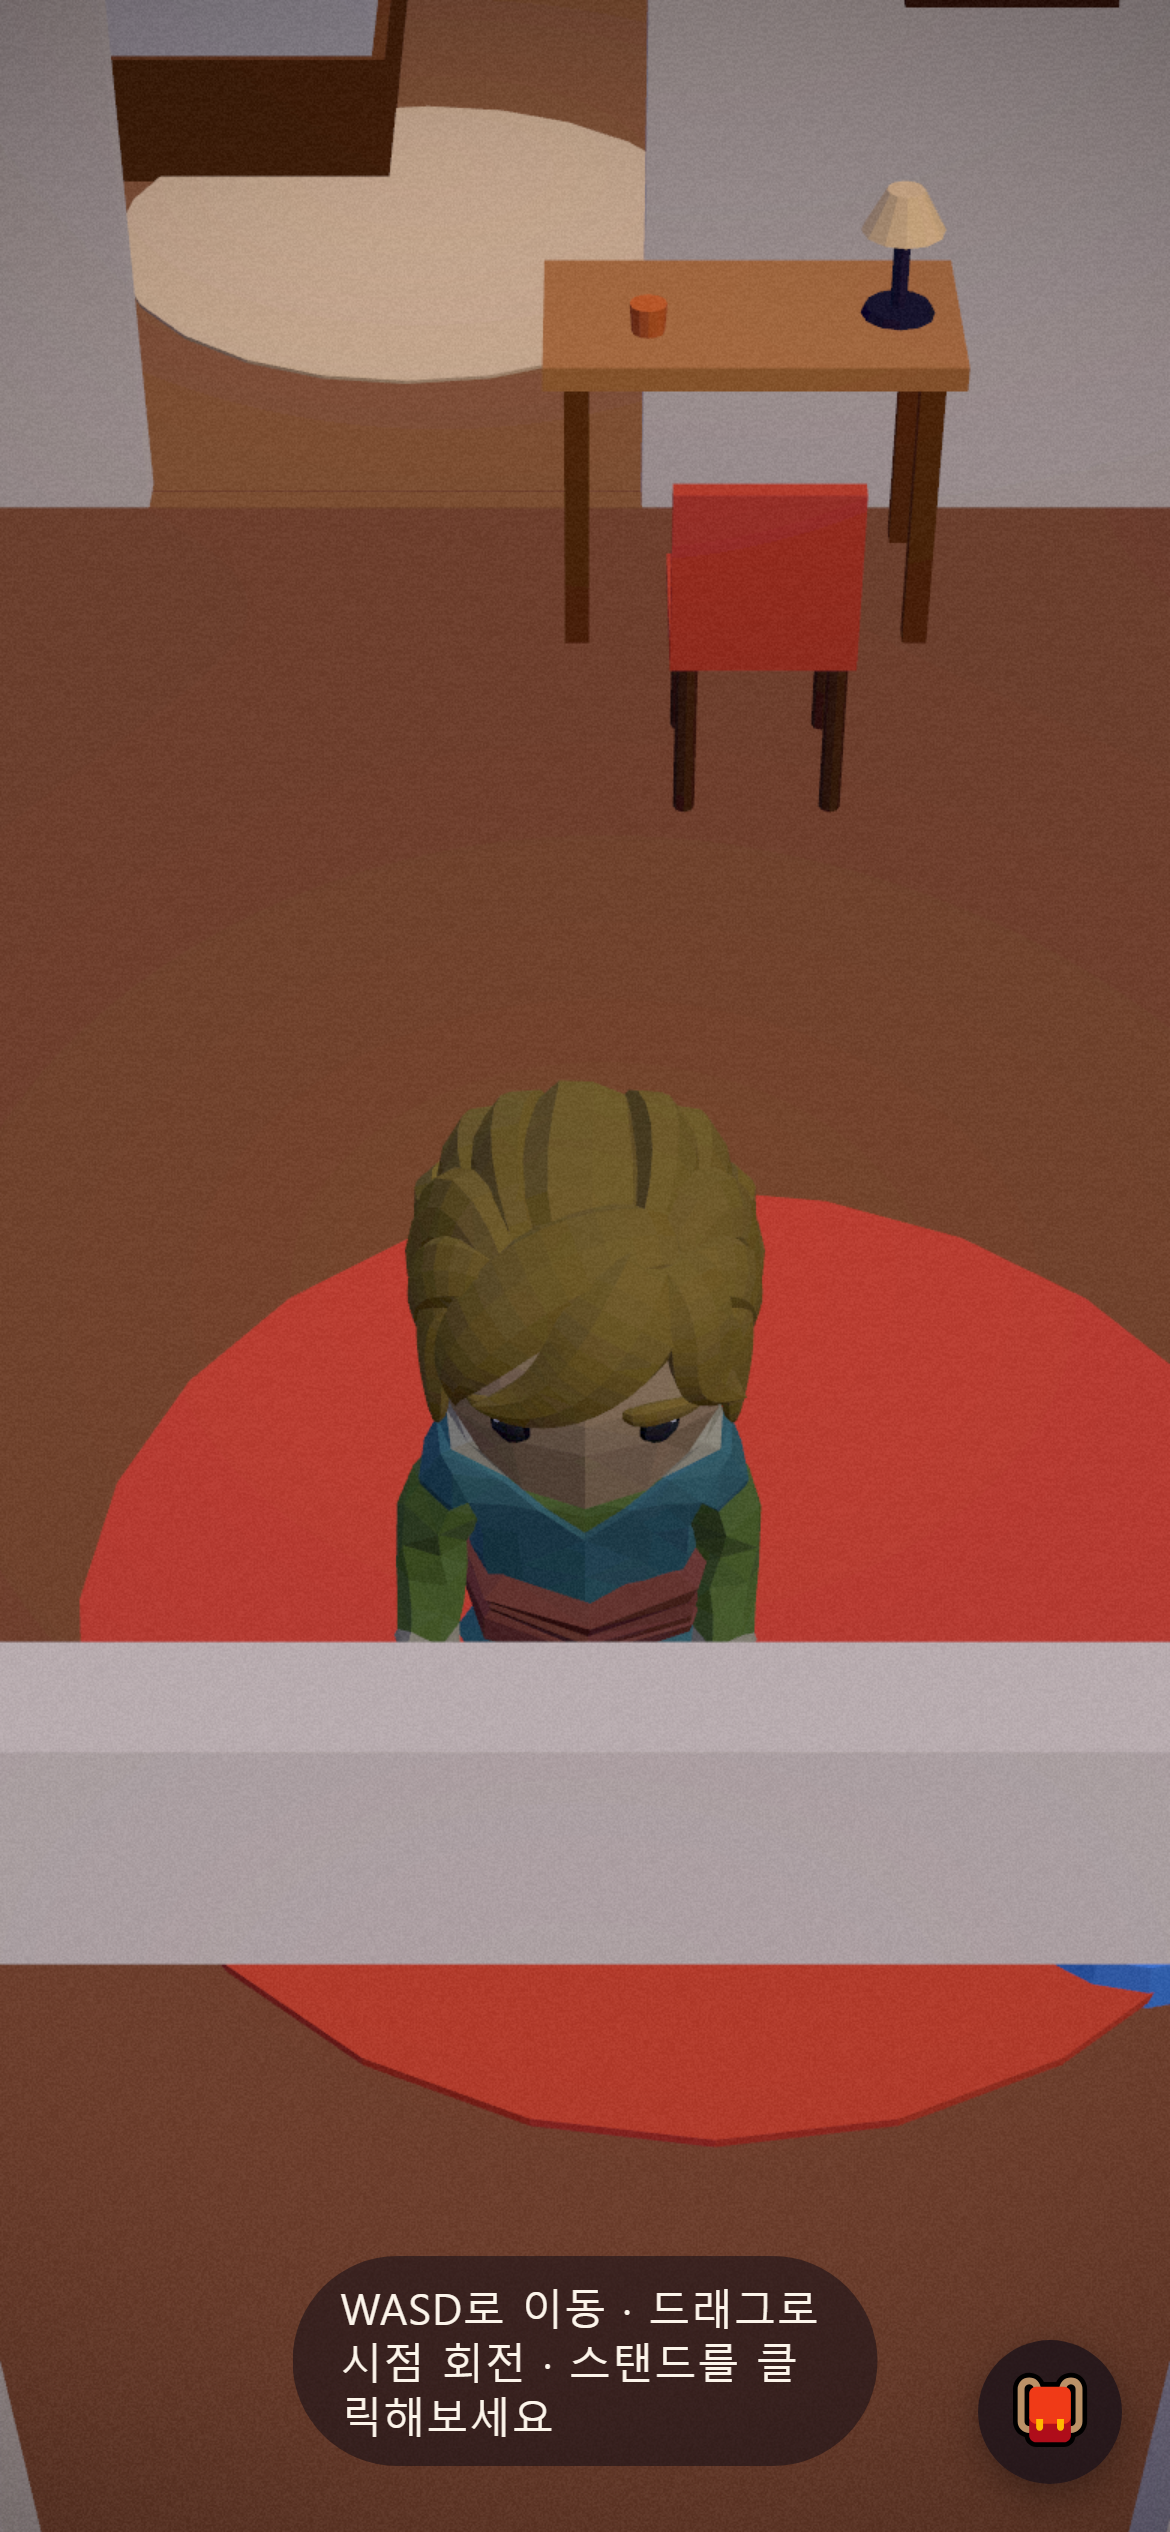
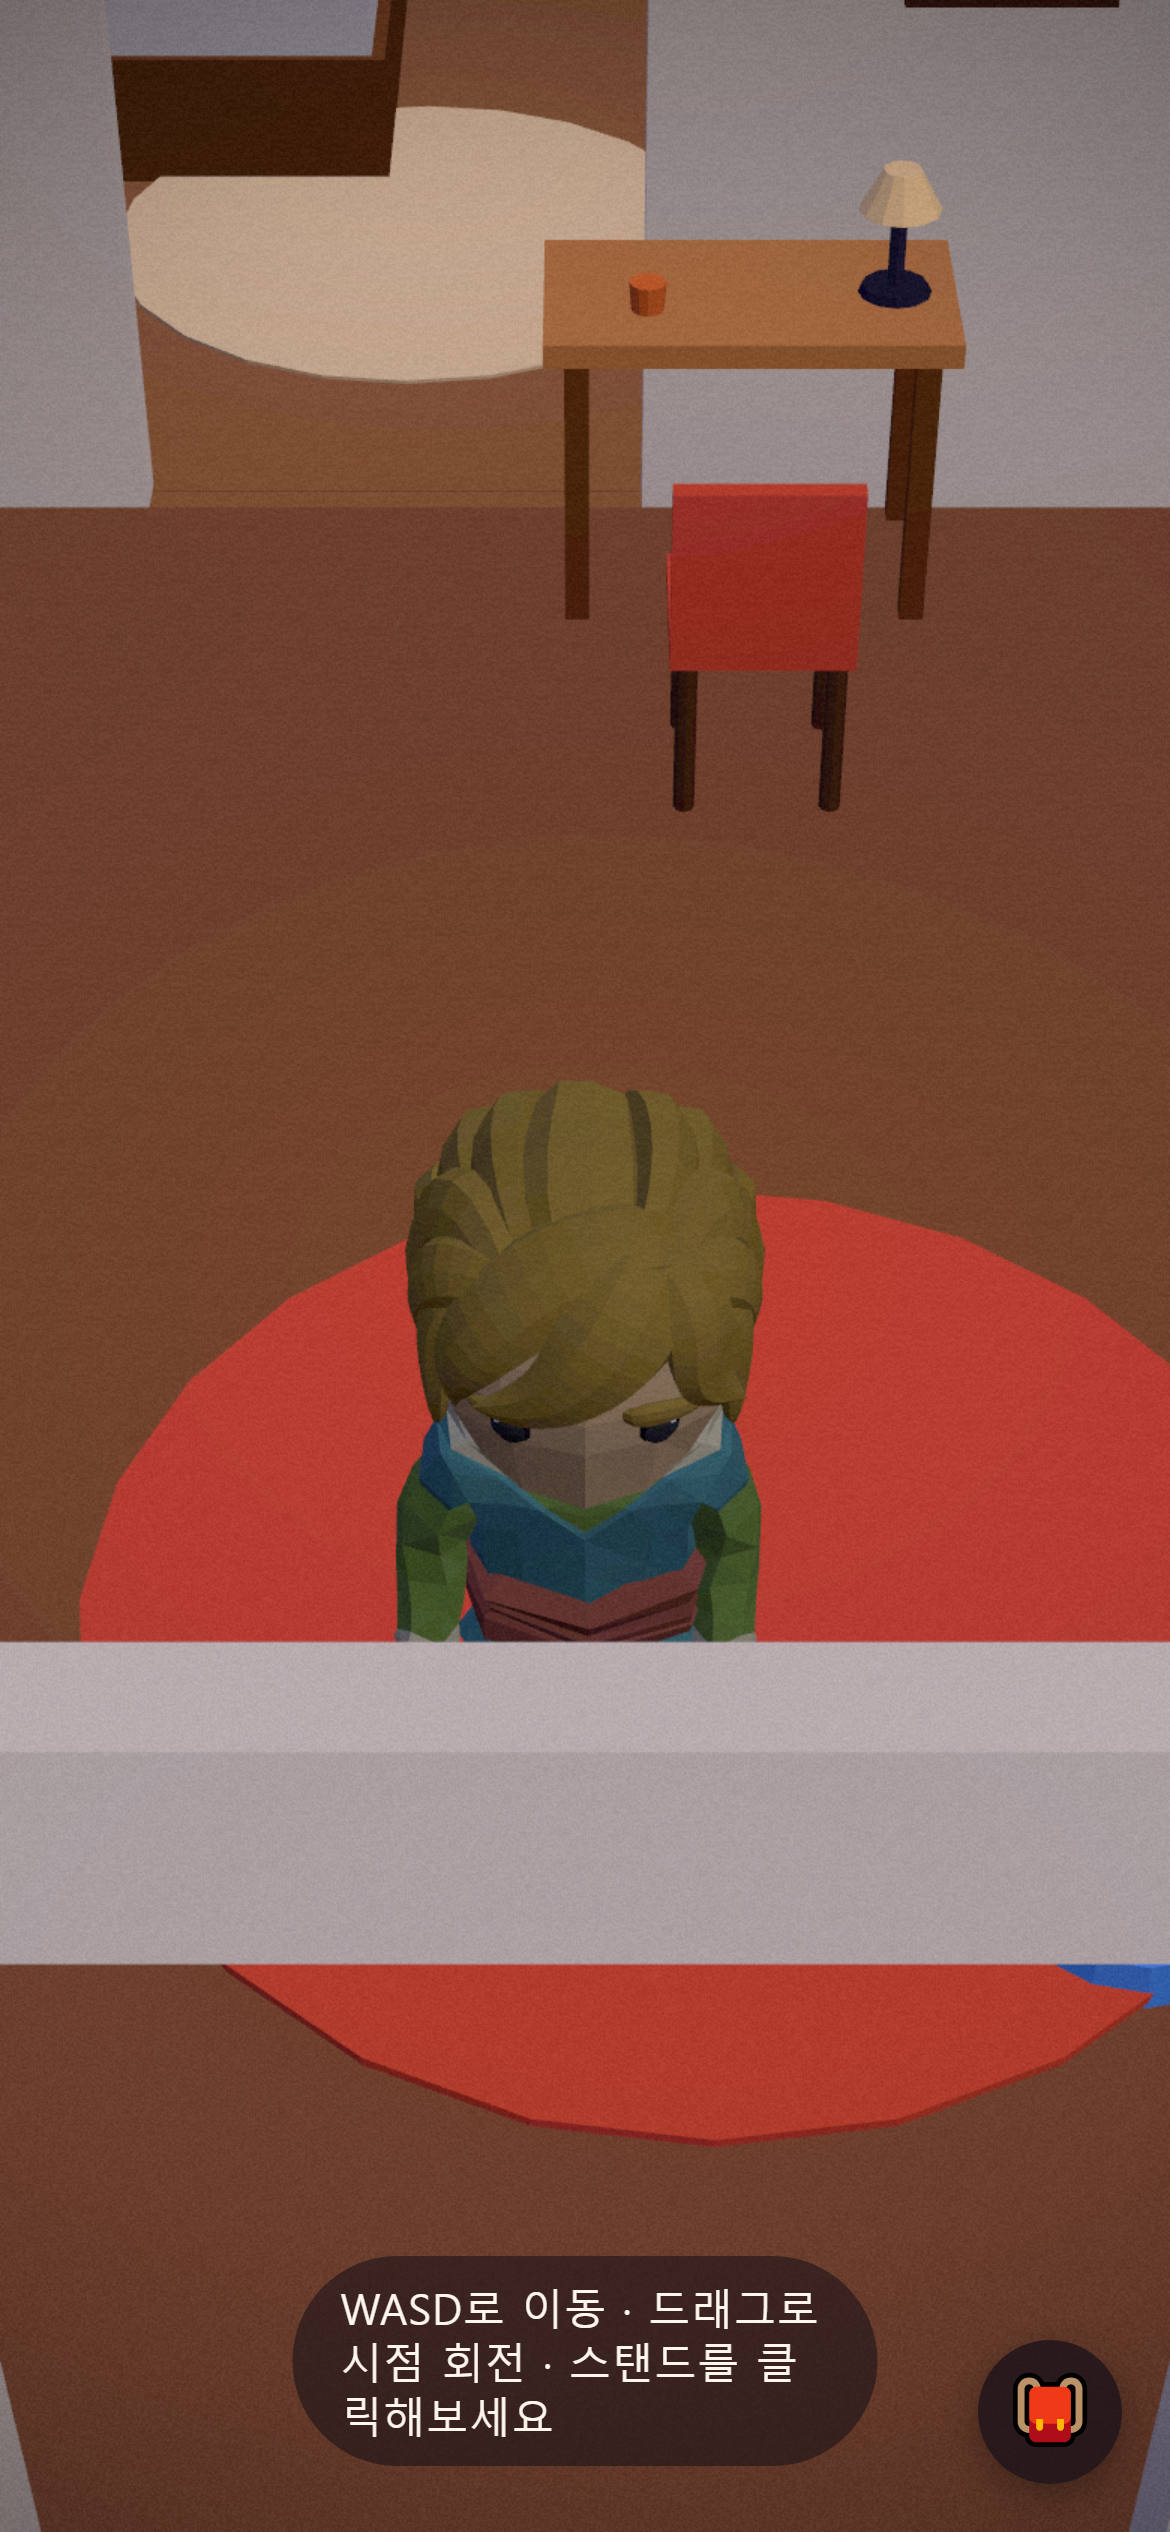
fix(m4): 이동 정지 버그 마무리 — M4 스펙 좌표 실수였다(resolve() 버그 아님)
1단계 판정: 갇힌 좌표에서 입력을 반대로 바꾸면 깨끗이 빠져나온다(2.4m
이동 확인) — 정상적인 코너 막힘, 진짜 버그 아님. resolve() 추적 종료.

2. 책상을 벽에 밀착(desk z: -2.55 → -2.66, 뒷면 -2.935, 벽 안쪽면 -2.94,
간격 0.005m). 원래 여유 0.115m가 플레이어 지름(0.44m)보다 좁은 죽은
주머니였다 — M4 스펙 좌표 자체의 실수. docs/spec/M4-layout.md §5.2 정정.
램프/머그컵은 desk 로컬 좌표라 자동으로 따라옴, 스크린샷으로 확인.

3. prop-bounds-check.mjs: 벽↔가구, 가구↔가구 틈이 플레이어 지름(0.44m)
미만이면 경고(0.01m 미만은 밀착으로 통과). living.desk↔living.chair는
의자가 책상 밑에 들어가는 정상 배치라 GAP_WHITELIST로 제외(이유 주석).

4. 책상을 벽에 붙여도 desk의 X 폭이 문D1 개구부 동쪽 일부와 겹쳐서,
직선/대각선으로 그 구석을 스치는 경로는 여전히 걸린다(실측 확인 —
정상적인 코너, 1단계 판정과 동일 성격). "이론상 통과 가능한 경로만
테스트한다" 원칙에 따라 m4-rooms.mjs/stuck-diagnose.mjs의 bedA/D1→living
구간에 문D1 중앙 경유 웨이포인트를 추가. stuck-diagnose.mjs에
KNOWN_FAILURES 배열 도입(현재 빈 배열) — 알려진 예외만 실패하면 exit 0,
새 실패가 하나라도 있으면 exit 1이라 상시 빨간불이 되는 걸 막는다.

5. m4-rooms.mjs 13/13 복구 확인(숫자 조작 아님, 실제 재실행 결과).
스크린샷 4장 재생성(이전에 실패 구간에서 잘못 찍힌 study/bedB 오염본을
정상 화면으로 교체). 전체 검증 스크립트(asset-check/layout-check/
character-check/audio-check/room-tint-check/prop-bounds-check/
input-check/interaction-check/mobile-check/stuck-diagnose) 전부 재실행,
전부 통과.

Changed region(s): [[0.4615, 0.0624, 0.8308, 0.2496]]

diff --git a/game/src/world/rooms/livingRoom.js b/game/src/world/rooms/livingRoom.js
@@ -21,8 +21,14 @@ export function createLivingRoom(scene, camera, renderer) {
   makeMesh(new THREE.CylinderGeometry(1.1, 1.1, 0.02, 24), 0xd1553f, room, [0.2, 0.02, 0.9], {}, { interactive: 'living.rug' });
 
   // ---------- 오브젝트: 책상 ----------
+  // ⚠ z=-2.55(뒷면 -2.825)였을 때 벽 안쪽면(-2.94)까지 여유가 0.115m
+  // 남았는데, 이게 플레이어 지름(0.44m)보다 좁아서 책상 모서리와 문D1
+  // 옆 벽 잔여조각 사이에 "같은 대각선 입력으로는 못 빠져나오는" 코너를
+  // 만들었다(docs/spec/M4-layout.md §5.2, docs/STATE.md 참고 — M4 스펙
+  // 자체의 실수, resolve() 버그 아님). z=-2.66으로 옮겨 벽에 밀착시켜
+  // (뒷면 -2.935, 간격 0.005) 그 죽은 주머니 자체를 없앤다.
   const desk = new THREE.Group();
-  desk.position.set(0.4, 0, -2.55);
+  desk.position.set(0.4, 0, -2.66);
   desk.userData[TAG.INTERACTIVE] = 'living.desk'; // Group 태깅 — 상판/다리 어디를 클릭해도 책상 전체가 반응
   room.add(desk);
 

diff --git a/docs/STATE.md b/docs/STATE.md
@@ -2,7 +2,7 @@
 
 > 60줄 유지. 서술 금지, 상태만. 세션 끝에 **Claude Code CLI / Antigravity가 갱신**한다.
 > 배경/경위가 필요하면 `handoff-2026-08-15.md`, 전체 로그는 `dev-log.md`.
-> 최종 갱신: 2026-08-17 — resolve() MTV 재구조화 완료(진단·실측 기반). 거실 문D1 코너는 구조적 한계로 미해결(아래)
+> 최종 갱신: 2026-08-17 — 이동 정지 버그 해결(M4 스펙 오류였음, 책상 벽밀착 + 웨이포인트). m4-rooms.mjs 13/13 복구
 
 ## 3층 운영규칙
 
@@ -29,7 +29,7 @@
 | M1 이동/충돌/카메라 (휠 줌 포함) | ✅ |
 | M2 룩 (후처리·안개·바깥지형) | ✅ |
 | M3 (a)에셋 파이프라인 ✅ / (b)걷는 캐릭터 | ✅ `gemini/lane-character` merge 완료 |
-| **M4 집 4칸 구조** (`layout.js`+`house.js`, 거실 소품) | ✅ 완료 — `layout-check.mjs` 7/7. `m4-rooms.mjs`는 현재 8/13(열린 작업 1번 참고) |
+| **M4 집 4칸 구조** (`layout.js`+`house.js`, 거실 소품) | ✅ 완료 — `layout-check.mjs` 7/7, `m4-rooms.mjs` 13/13 통과 |
 | M4c / M4-ext 방 3개 드레싱 + B-4a/b, B-5 | ✅ 완료 — `gemini/lane-rooms` merge 완료 (D4 현관문·마당, 창문 3개, Space 점프 물리) |
 | M5 배포 (itch.io) | 🟡 **배포 도구까지 준비됨** — `docs/deploy.md`+`tools/make-dist.mjs` |
 | M6 증식 (오디오 시스템 ✅ 실제 에셋까지 완료 / 소품) | 🟡 `gemini/lane-audio-content` merge 완료 |
@@ -46,13 +46,12 @@
 
 ## 지금 열려 있는 작업 (우선순위)
 
-1. **🟡 이동 정지 버그 — 원인 규명 완료, 부분 수정(resolve.js MTV화), 근본 케이스는 미해결**: `physics/resolve.js`를 "겹치는 콜라이더 전부 순차 적용"에서 "반복마다 가장 깊은 것 하나만 해소"(MTV 정석)로 바꿨다. 실측 결과 원인은 사용자가 추정한 "한 콜라이더의 반대 push 상쇄"가 아니라, **서로 무관한 콜라이더 2개**(문D1 동쪽 벽 잔여조각=X만 막음, `living.desk`=Z만 막음)가 각자 다른 축을 막아 대각선 이동을 정확히 상쇄하는 것이었다(간격 0.115m, 코너에 반지름만큼 정확히 접함). MTV로 바꿔도 이 특정 케이스는 **똑같이 재현됨**(실측 확인 — 두 콜라이더가 독립적이라 순서를 바꿔도 결국 둘 다 적용됨). `m4-rooms.mjs` 여전히 8/13, `tools/render-check/stuck-diagnose.mjs`가 회귀 검사로 상시 편입됨(1개 알려진 실패 유지, exit 1이 정상)
-2. **M5 배포 판단** — 사용자 몫, 도구까지 준비됨(`docs/deploy.md`)
-3. 벽 페이드 (`TAG.FADEABLE` 실제 투명도) — 2층, 문/창문 있는 벽 구조가 정립됨
-4. 카메라: `maxDistance` 8.0 이상 휠 줌아웃 시 일부 방 아티팩트 피치 튜닝
-5. 모바일: 가상 조이스틱은 스트레치 목표라 미구현
+1. **M5 배포 판단** — 사용자 몫, 도구까지 준비됨(`docs/deploy.md`)
+2. 벽 페이드 (`TAG.FADEABLE` 실제 투명도) — 2층, 문/창문 있는 벽 구조가 정립됨
+3. 카메라: `maxDistance` 8.0 이상 휠 줌아웃 시 일부 방 아티팩트 피치 튜닝
+4. 모바일: 가상 조이스틱은 스트레치 목표라 미구현
 
 ## 열린 결정 / 미확정
 
-- 방 크기 6.0/5×4/4×5/4×4 m 경로는 **위 이동 정지 버그로 m4-rooms.mjs 13/13 재현 안 됨**(8/13, 위 항목 1 참고). 책상↔의자 실측 간격은 0.315m(플레이어 지름 0.44m보다 좁음 — 원래 통과 불가가 정상, 버그 아님)
+- ✅(해결) 이동 정지 버그: M4 스펙의 책상 좌표 실수(z=-2.55, 벽까지 여유 0.115m — 플레이어 지름 0.44m보다 좁은 죽은 주머니)였다. z=-2.66(벽 밀착, 간격 0.005m)로 수정 + `m4-rooms.mjs`/`stuck-diagnose.mjs`가 문D1 코너를 지나는 경로에 웨이포인트 추가. `resolve.js`는 MTV(반복마다 최심 콜라이더 1개만 해소)로도 재구조화했지만 이 특정 코너 자체는 알고리즘이 아니라 지오메트리 문제였음(입력 반전 시 정상 탈출 확인됨). `m4-rooms.mjs` 13/13, `stuck-diagnose.mjs` KNOWN_FAILURES=[] 로 통과. `prop-bounds-check.mjs`에 벽↔가구/가구↔가구 틈(<플레이어 지름) 경고 추가(책상↔의자 0.425m는 화이트리스트, 정상 배치)
 - 현관문(집 밖 출입) & 마당 울타리 (B-4a) 완료

diff --git a/docs/deploy.md b/docs/deploy.md
@@ -17,7 +17,7 @@ node tools/render-check/interaction-check.mjs game tools/render-check
 node tools/render-check/stuck-diagnose.mjs game
 ```
 
-⚠ **알려진 예외**: `m4-rooms.mjs`(8/13)와 `stuck-diagnose.mjs`(exit 1)는 현재 통과하지 못한다 — 거실 문D1 코너(책상+벽 잔여조각)에서 대각선 이동이 막히는 알려진 이동 정지 버그 때문이다(`docs/STATE.md` 열린 작업 1번). `physics/resolve.js`는 이미 MTV 정석 방식으로 재구조화했지만 이 특정 케이스는 두 콜라이더가 독립적으로 막고 있어 알고리즘을 바꿔도 안 풀린다는 게 실측으로 확인됐다. 배포 전에는 이 두 스크립트의 "새로운" 실패가 없는지(즉 8/13·같은 좌표 그대로인지)만 확인하면 된다.
+`stuck-diagnose.mjs`는 `KNOWN_FAILURES` 배열이 비어 있으면 실패 0건이어야 exit 0이다 — 알려진 예외가 생기면 그 스크립트 안에 이름을 추가하고 이유를 주석에 남길 것(항상 빨간불로 방치하지 말 것, `docs/STATE.md` 참고).
 
 ## 1. zip 만들기 — 반드시 스크립트로
 

diff --git a/docs/spec/M4-layout.md b/docs/spec/M4-layout.md
@@ -148,7 +148,7 @@
 
 | 소품 | 기존 (x, z) | 신규 (x, z) | 비고 |
 |---|---|---|---|
-| 책상 그룹 | (0.4, −1.35) | **(0.4, −2.55)** | 깊이 0.55 → 뒷면 −2.825, 벽까지 여유 0.115 |
+| 책상 그룹 | (0.4, −1.35) | **(0.4, −2.66)** | 깊이 0.55 → 뒷면 −2.935, 벽 안쪽면(−2.94)에 밀착(간격 0.005) — ⚠ 원래 −2.55(여유 0.115)였으나, 그 여유가 플레이어 지름(0.44)보다 좁아 "죽은 주머니"(코너에 갇힘)를 만든 게 내 실수였다. 벽에 밀착시켜 주머니 자체를 없앤다 |
 | 의자 | (0.4, −0.55) | **(0.4, −1.75)** | 책상과의 상대 간격 0.8 유지 |
 | 책장 | (−1.6, −0.9) | **(−2.75, −0.9)** | 폭 0.28 → 좌면 −2.89, 여유 0.05 |
 | 화분 | (−1.55, 1.15) | **(−2.75, 1.15)** | |
